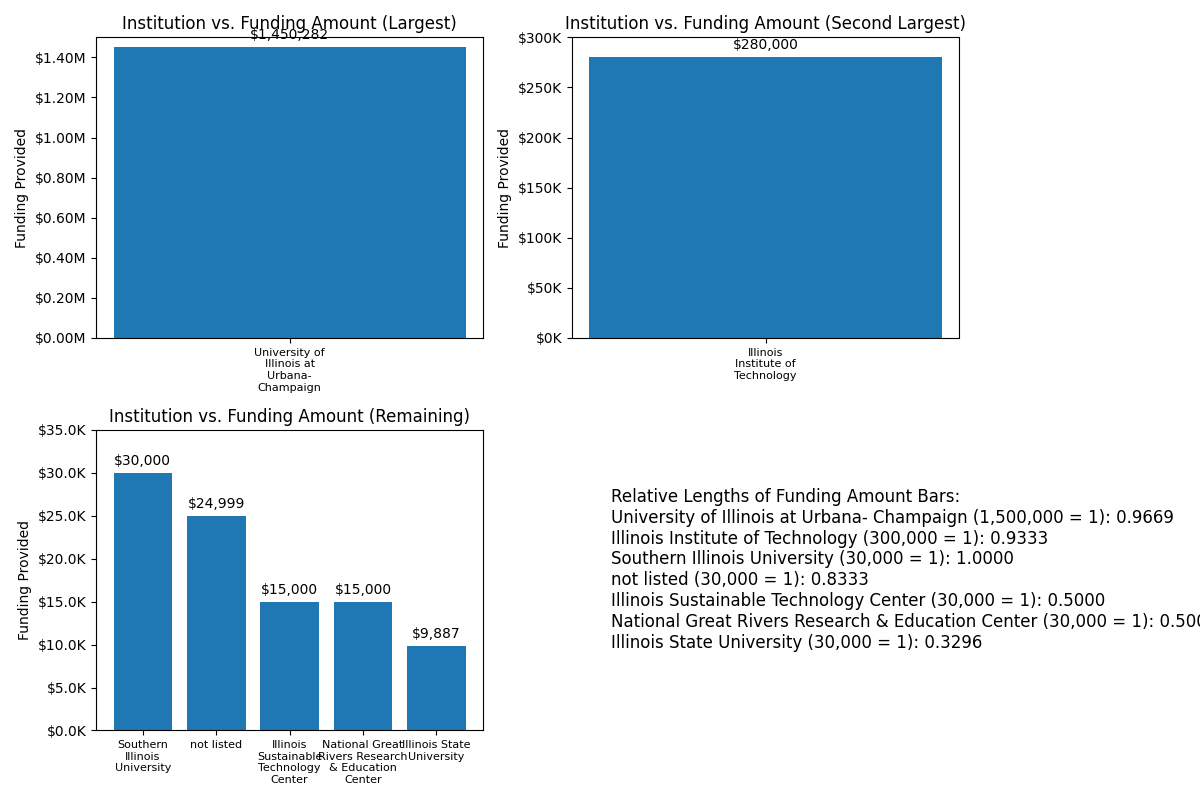
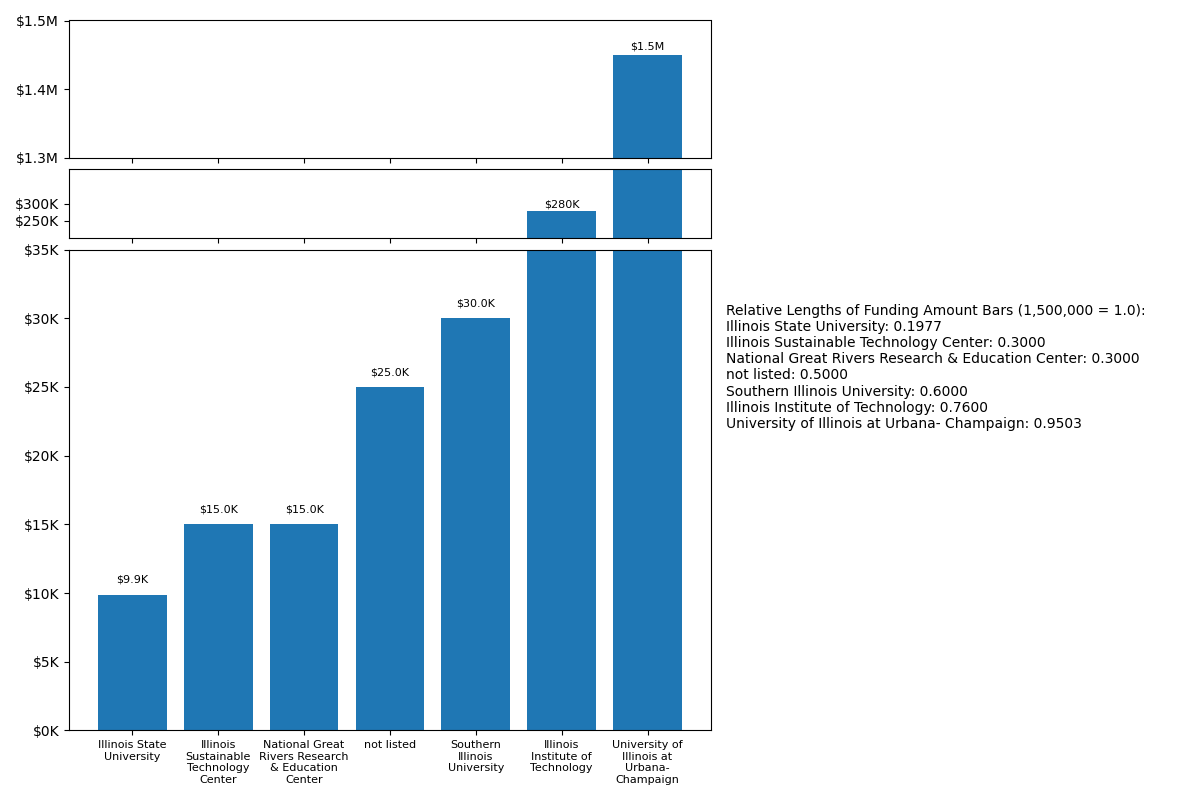
started making inst graphs better

diff --git a/datavis.py b/datavis.py
@@ -66,8 +66,6 @@ science_grps = proj_data.groupby('WRRI Science Priority', as_index=False, dropna
 # change each priority name to add line breaks for better visualization
 science_grps['WRRI Science Priority'] = science_grps['WRRI Science Priority'].apply(wrap_label)
 
-print(science_grps.to_string())
-
 
 # new DF (from proj_data):
 # group by "PI Affiliated Organization"
@@ -75,7 +73,7 @@ print(science_grps.to_string())
 # sort by funding amount descending
 inst_grps = proj_data.groupby('PI Affiliated Organization', as_index=False, dropna=True).agg(
   **{'Project Count': ('Project ID', 'size'), 'Funding Amount': ('Funding Amount', 'sum')}
-).sort_values('Project Count', ascending=False)
+).sort_values('Funding Amount', ascending=True)
 
 # rename 'PI Afilliated Organization' to 'Institution'
 inst_grps.rename(columns={'PI Affiliated Organization': 'Institution'}, inplace=True)
@@ -83,85 +81,133 @@ inst_grps.rename(columns={'PI Affiliated Organization': 'Institution'}, inplace=
 # add line breaks to institution for better visualization
 inst_grps['Institution'] = inst_grps['Institution'].apply(wrap_label)
 
+print(inst_grps.to_string())
+
 
 # ----- INSTITUTION VISUALIZATIONS -----
 # Subplots (from inst_grps):
-# 1. bar chart, 'Institution' vs 'Funding Amount', only include biggest number
-# 2. bar chart, 'Institution' vs 'Funding Amount', only include second biggest number
-# 2. bar chart, 'Institution' vs 'Funding Amount', include all but two biggest numbers
+# 1. bar chart, 'Institution' vs 'Funding Amount'
 # Additional info to display:
-# 1. The relative length of the bar in figure 1, if 1500000 is "1"
-# 2. The relative length of the bar in figure 2, if 300000 is "1"
-# 3. The relative lengths of the bars in figure 3, if 30000 is "1"
+# 4. the relative lengths of the bars in figure 1
 # Figure arrangement:
-# 2 rows, 2 columns (first two subplots on top row, third subplot on bottom left, additional info on bottom right)
+# 1 rows, 2 columns
+# subplot in first column, take up 2/3 of figure space
+# additional info in second column, take up 1/3 of figure space
 
 inst_fig = plt.figure(figsize=(12, 8))
+inst_gs = inst_fig.add_gridspec(1, 2, width_ratios=[2, 1])
 
-# Subplot 1: largest funding amount
-# y label: funding provided
-# y tick marks go from 0 to 1.5 million
-# y axis formatted as currency in units of 1.XXM
-# put amount on top of bar
-ax1 = inst_fig.add_subplot(2, 2, 1)
-inst_sorted = inst_grps.sort_values('Funding Amount', ascending=False)
-largest_inst = inst_sorted.iloc[0]
-ax1.bar([largest_inst['Institution']], [largest_inst['Funding Amount']])
-ax1.set_title('Institution vs. Funding Amount (Largest)')
-ax1.tick_params(axis='x', labelsize=8)
-ax1.set_ylabel('Funding Provided')
-ax1.set_ylim(0, 1500000)
-ax1.yaxis.set_major_formatter(plt.FuncFormatter(lambda x, p: f'${x/1e6:.2f}M'))
-ax1.text(0, largest_inst['Funding Amount'] + 25000, f"${largest_inst['Funding Amount']:,.0f}", ha='center', va='bottom')
+# set up section scaling
+min_1 = 0
+max_1 = 35000
+incr_1 = 5000
+ticks_1 = (max_1 - min_1) / incr_1
 
-# Subplot 2: second largest funding amount
-# y label: funding provided
-# y tick marks go from 0 to 300 thousand
-# y axis formatted as currency in units of 1XXK
-# put amount on top of bar
-ax2 = inst_fig.add_subplot(2, 2, 2)
-second_inst = inst_sorted.iloc[1]
-ax2.bar([second_inst['Institution']], [second_inst['Funding Amount']])
-ax2.set_title('Institution vs. Funding Amount (Second Largest)')
-ax2.tick_params(axis='x', labelsize=8)
-ax2.set_ylabel('Funding Provided')
-ax2.set_ylim(0, 300000)
-ax2.yaxis.set_major_formatter(plt.FuncFormatter(lambda x, p: f'${x/1e3:.0f}K'))
-ax2.text(0, second_inst['Funding Amount'] + 5000, f"${second_inst['Funding Amount']:,.0f}", ha='center', va='bottom')
+min_2 = 250000
+max_2 = 300000
+incr_2 = 50000
+ticks_2 = (max_2 - min_2) / incr_2
 
-# Subplot 3: remaining institutions
-# y label: funding provided
-# y tick marks go from 0 to 35 thousand
-# y axis formatted as currency in units of 1X.XK
+min_3 = 1300000
+max_3 = 1500000
+incr_3 = 100000
+ticks_3 = (max_3 - min_3) / incr_3
+
+# Subplot 1: Institutions by Funding Provided
+# y label: Funding Amount
+# x label: none
+# arrange institutions in ascending order
+# The largest amount will reach the 3rd section, the second largest amount will reach the 2nd section, and the remaining institutions will all go in the 1st section
 # put amount on top of each bar
-ax3 = inst_fig.add_subplot(2, 2, 3)
-remaining_insts = inst_sorted.iloc[2:]
-ax3.bar(remaining_insts['Institution'], remaining_insts['Funding Amount'])
-ax3.set_title('Institution vs. Funding Amount (Remaining)')
-ax3.tick_params(axis='x', labelsize=8)
-ax3.set_ylabel('Funding Provided')
-ax3.set_ylim(0, 35000)
-ax3.yaxis.set_major_formatter(plt.FuncFormatter(lambda x, p: f'${x/1e3:.1f}K'))
-for i, v in enumerate(remaining_insts['Funding Amount']):
-  ax3.text(i, v + 500, f'${v:,.0f}', ha='center', va='bottom')
 
+# split y axes
+# make each tick increment the same visual length:
+#   bottom has 7 increments (0-35k by 5k), middle has 1 increment (250-300k by 50k),
+#   top has 2 increments (1.3-1.5M by 0.1M) -> height ratios [2, 1, 7]
+inst_left_gs = inst_gs[0].subgridspec(3, 1, height_ratios=[ticks_3, ticks_2, ticks_1], hspace=0.05)
+ax_top = inst_fig.add_subplot(inst_left_gs[0])
+ax_mid = inst_fig.add_subplot(inst_left_gs[1], sharex=ax_top)
+ax_bot = inst_fig.add_subplot(inst_left_gs[2], sharex=ax_top)
+
+# plot bars on each axis
+x = np.arange(len(inst_grps))
+for ax in (ax_top, ax_mid, ax_bot):
+  ax.bar(x, inst_grps['Funding Amount'])
+
+# first section
+# formatting: currency, 1XK
+ax_bot.set_ylim(min_1, max_1)
+ax_bot.set_yticks(np.arange(min_1, max_1, incr_1))
+ax_bot.yaxis.set_major_formatter(plt.FuncFormatter(lambda v, p: f'${v/1e3:.0f}K'))
+
+# second section
+# range: 250 thousand to 300 thousand
+# tick increments: 50 thousand
+# formatting: currency, 1XXK
+ax_mid.set_ylim(200000, 400000)
+ax_mid.set_yticks(np.arange(250000, 300001, 50000))
+ax_mid.yaxis.set_major_formatter(plt.FuncFormatter(lambda v, p: f'${v/1e3:.0f}K'))
+
+# third section
+# range: 1.3 million to 1.5 million
+# tick increments: 0.1 million
+# formatting: currency, 1.XM
+ax_top.set_ylim(1300000, 1500000)
+ax_top.set_yticks(np.arange(1300000, 1500001, 100000))
+ax_top.yaxis.set_major_formatter(plt.FuncFormatter(lambda v, p: f'${v/1e6:.1f}M'))
+
+# only show ticks on bottom axis
+ax_bot.set_xticks(x)
+ax_bot.set_xticklabels(inst_grps['Institution'], fontsize=8)
+plt.setp(ax_top.get_xticklabels(), visible=False)
+plt.setp(ax_mid.get_xticklabels(), visible=False)
+
+# put funding amount on top of each bar
+# formatting for values <100K: 1.XK
+# formatting for values >100k and <1M: 1XXK
+# formatting for values >1M: 1.XM
+def format_funding_label(value):
+  if value < 100000:
+    return f'${value/1e3:.1f}K'
+  if value < 1000000:
+    return f'${value/1e3:.0f}K'
+  return f'${value/1e6:.1f}M'
+
+for i, amount in enumerate(inst_grps['Funding Amount']):
+  if amount <= ax_bot.get_ylim()[1]:
+    ax = ax_bot
+  elif amount <= ax_mid.get_ylim()[1]:
+    ax = ax_mid
+  else:
+    ax = ax_top
+  ylim = ax.get_ylim()
+  y_offset = 0.02 * (ylim[1] - ylim[0])
+  ax.text(i, amount + y_offset, format_funding_label(amount), ha='center', va='bottom', fontsize=8, clip_on=False)
 
 # Additional info to display:
-# 1. The relative length of the bar in figure 1, with 1500000 being "1"
-# 2. The relative length of the bar in figure 2, with 300000 being "1"
-# 3. The relative lengths of the bars in figure 3, with 30000 is "1"
-# for all: strip newline characters from institution names for clarity, list number to 4 decimal places
-info_text = "Relative Lengths of Funding Amount Bars:\n"
-largest_name = largest_inst['Institution'].replace('\n', ' ')
-second_name = second_inst['Institution'].replace('\n', ' ')
-info_text += f"{largest_name} (1,500,000 = 1): {largest_inst['Funding Amount'] / 1500000:.4f}\n"
-info_text += f"{second_name} (300,000 = 1): {second_inst['Funding Amount'] / 300000:.4f}\n"
-for inst, amount in zip(remaining_insts['Institution'], remaining_insts['Funding Amount']):
-  inst_name = inst.replace('\n', ' ')
-  info_text += f"{inst_name} (30,000 = 1): {amount / 30000:.4f}\n"
-ax4 = inst_fig.add_subplot(2, 2, 4)
-ax4.axis('off')
-ax4.text(0.1, 0.5, info_text, fontsize=12, verticalalignment='center')
+# The relative lengths of the bars in figure 4, with the total height of the chart as "1"
+# strip newline characters from institution names for clarity, list number to 4 decimal places
+TOTAL_UNITS = 10.0  # 7 + 1 + 2, corresponds to y = 1,500,000
+
+def broken_axis_height_units(value):
+  if value <= 35000:
+    return (value / 5000.0)  # 0-7 units
+  if value <= 300000:
+    # Full bottom segment (7 units) + middle partial (0-1 unit)
+    return 7.0 + ((value - 250000.0) / 50000.0)
+  # value in top segment
+  # Full bottom + middle (8 units) + top partial (0-2 units)
+  return 8.0 + ((value - 1300000.0) / 100000.0)
+
+info_text = "Relative Lengths of Funding Amount Bars (1,500,000 = 1.0):\n"
+for inst, amount in zip(inst_grps['Institution'], inst_grps['Funding Amount']):
+  inst_long = inst.replace('\n', ' ')
+  rel_length = broken_axis_height_units(amount) / TOTAL_UNITS
+  info_text += f"{inst_long}: {rel_length:.4f}\n"
+
+ax_info = inst_fig.add_subplot(inst_gs[1])
+ax_info.axis('off')
+ax_info.text(0.0, 0.5, info_text, fontsize=10, verticalalignment='center')
 
 
 plt.tight_layout()
@@ -263,6 +309,7 @@ funding_fig.savefig('saved_figs/funding_visualizations.png')
 # 1 row, 2 columns (first subplot on left, additional info on right)
 
 student_fig = plt.figure(figsize=(10, 5))
+
 # Subplot 1: Student Type vs. Student Count
 ax1 = student_fig.add_subplot(1, 2, 1)
 ax1.bar(stu_data['Student Type'], stu_data['Student Count'])
